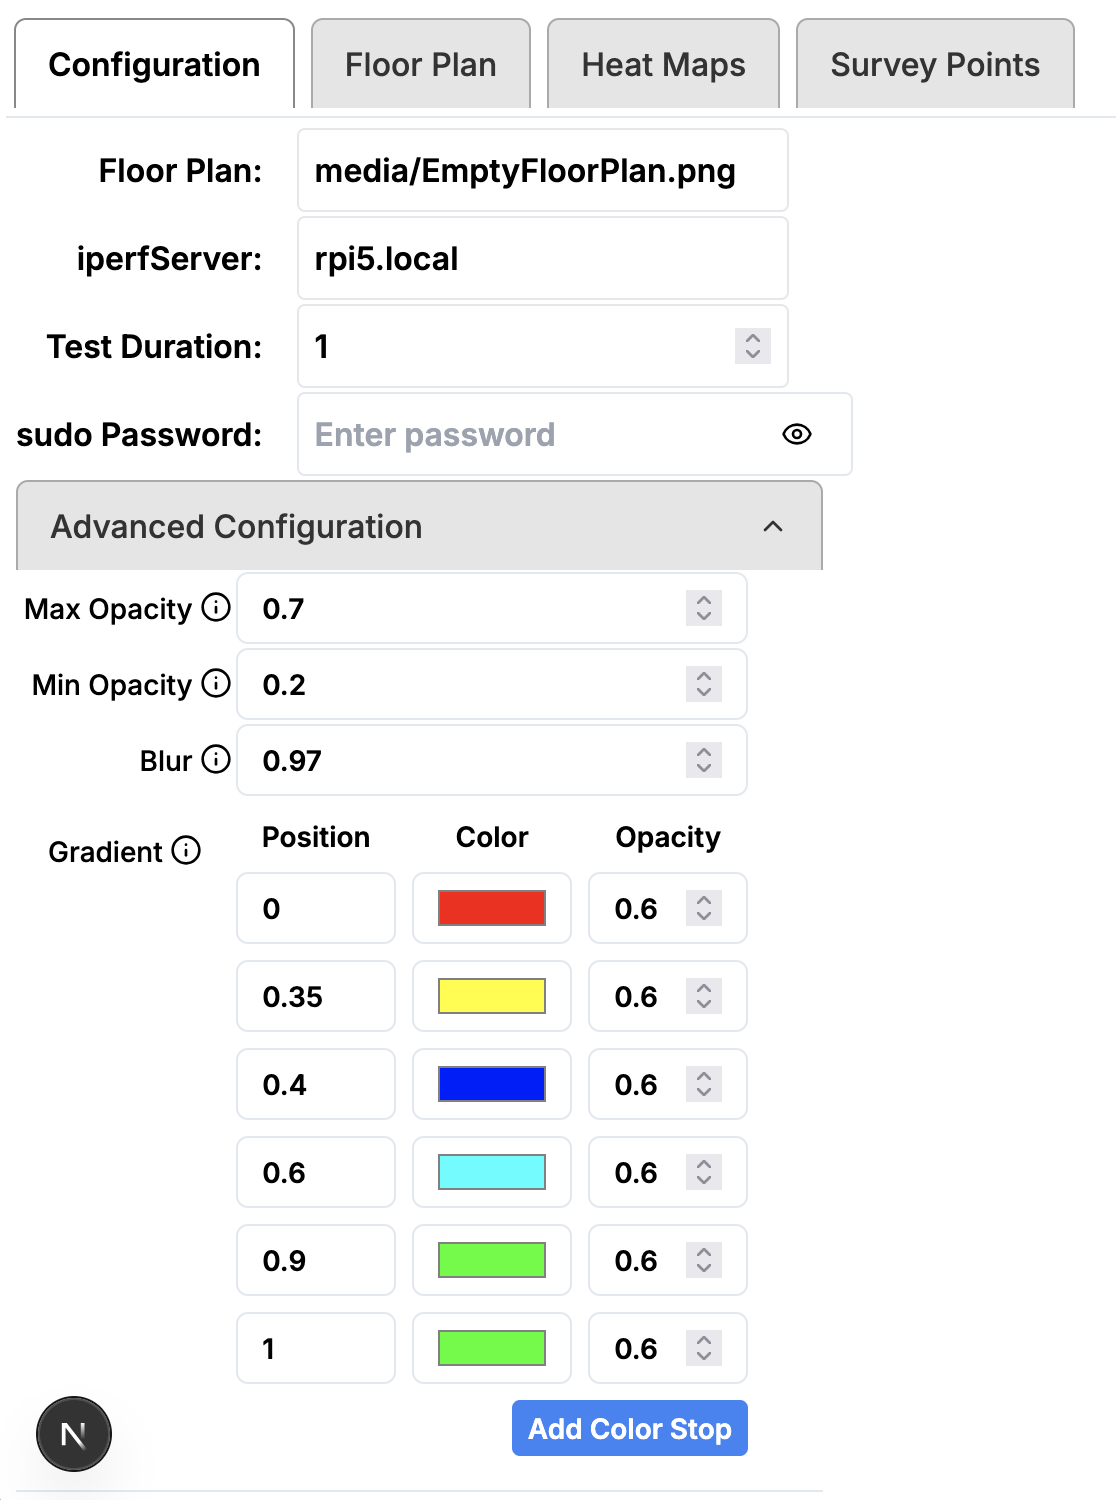
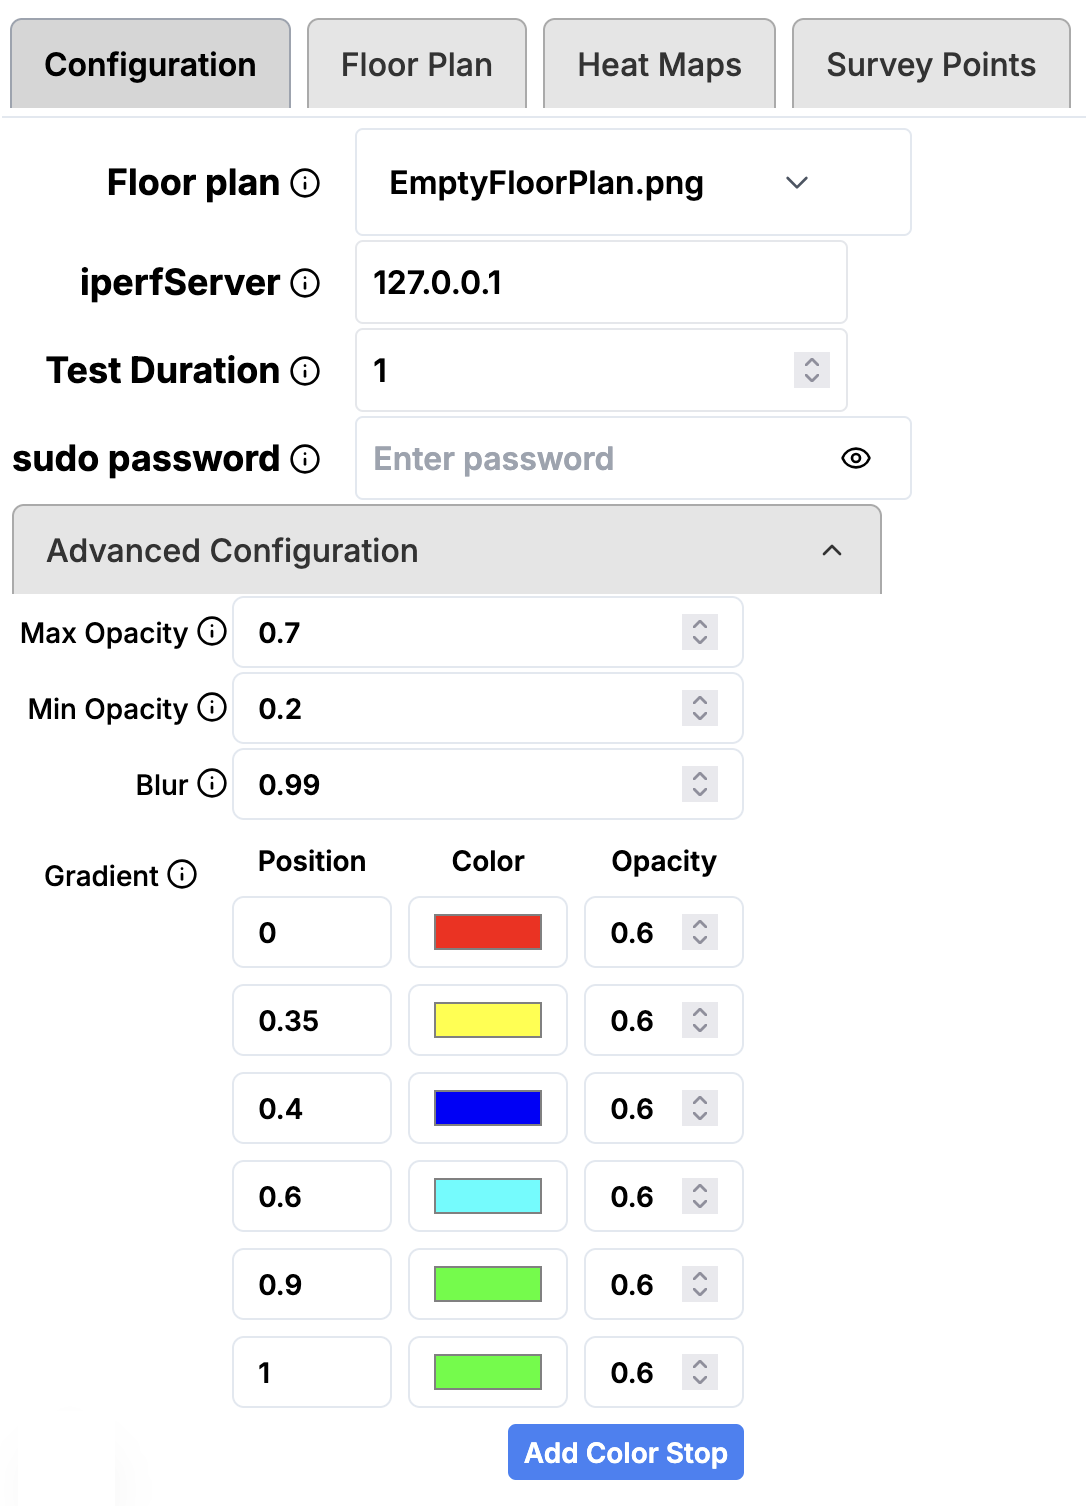
Editorial pass over documentation

diff --git a/src/lib/iperfRunner.ts b/src/lib/iperfRunner.ts
@@ -140,9 +140,7 @@ export async function runIperfTest(settings: HeatmapSettings): Promise<{
   iperfResults: IperfResults | null;
   wifiData: WifiNetwork | null;
 }> {
-  const performIperfTest =
-    settings.iperfServerAdrs != "localhost" &&
-    settings.iperfServerAdrs != "127.0.0.1";
+  const performIperfTest = settings.iperfServerAdrs != "localhost";
   const logger = getLogger("iperfRunner");
   try {
     const maxRetries = 3;

diff --git a/src/components/GlobalSettings.tsx b/src/components/GlobalSettings.tsx
@@ -21,7 +21,7 @@ const getDefaults = (floorPlan: string): HeatmapSettings => {
     surveyPoints: [],
     floorplanImageName: floorPlan,
     floorplanImagePath: join("/media", floorPlan),
-    iperfServerAdrs: "127.0.0.1",
+    iperfServerAdrs: "localhost",
     apMapping: [],
     testDuration: 1,
     sudoerPassword: "",

diff --git a/README.md b/README.md
@@ -1,16 +1,18 @@
 # WiFi Heatmapper
 
 **wifi-heatmapper** displays heat maps of both
-WiFi signal strength and
-the results of a network speed (throughput) test.
+Wi-Fi signal strength and
+the results of network throughput (speed) tests.
 This is useful for optimizing access point placement,
 or knowing where to add new mesh devices or extenders.
 
 **wifi-heatmapper** runs on Windows, macOS, and Linux.
 
-The heat maps use a green color to show areas of strong signal
+The heat maps use a green color ("green is good")
+to show areas of strong signal
 (or high data transfer speeds).
-Acceptable signal levels fade to turquoise, then to blue.
+Signal levels fade to turquoise, then to blue
+(lowest acceptable).
 Yellow and red colors indicate poor signal levels.
 The screen shot below shows a sample heat map:
 
@@ -27,22 +29,25 @@ There are more details about the operation of **wifi-heatmapper** at:
 
 **Install wifi-heatmapper** on a laptop computer since you use it
 to measure signal strength at various locations.
-See [Installation](#installing-and-running) for details.
+See [Installing and Running](#installing-and-running)
+below for details.
 Then browse to
 [http://localhost:3000](http://localhost:3000).
 
-**Settings pane:** Enter the address of an iperf3 server
+**Settings pane:** To get started, use the default floor plan
+(EmptyFloorPlan.png)
 and provide a sudo password for macOS or Linux.
-Leave the other settings at their default to start.
+Leave the other settings at their default.
+No throughput tests are made when the iperf3 server is set
+to "localhost".
 
 **Switch to the Floor Plan tab.**
 You'll see the built-in Empty Floor Plan or your imported image.
-_NB: Importing a new background image is currently awkward... Copy the PNG/JPG file to the `public/media` folder on the laptop, then specify its name in the Settings pane._
 
 **Start a measurement** by clicking the floor plan at a point
 that reflects the laptop's location.
 **wifi-heatmapper** measures the WiFi signal strength and
-the throughput at that point.
+(optionally) the throughput at that point.
 The floor plan displays a dot colored by its signal stength.
 Click the dot to get more information.
 
@@ -67,31 +72,44 @@ Install **wifi-heatmapper** on a laptop device
 so you can move from place to place.
 To install the software:
 
-1. Pull the repo, and install the `npm` dependencies.
+1. Pull the repo, install the `npm` dependencies, and run the project:
 
    ```bash
    git clone https://github.com/hnykda/wifi-heatmapper.git
    cd wifi-heatmapper
    npm install
+   npm run dev
    ```
+2. Browse to [http://localhost:3000](http://localhost:3000)
+   and follow the steps at the top of this page
 
-2. Install `iperf3` on your laptop.
-3. Install `iperf3` on another computer.
+### Installing iperf3
+
+_Note: Installing the `iperf3` client and server are optional.
+This makes the initial installation straightforward:
+simply perform the two steps above.
+But it misses out on the ability to make throughput tests._
+
+To take advantage of `iperf3` throughput (speed) tests:
+
+1. Install `iperf3` on your laptop.
+2. Install `iperf3` on another computer.
    We call this the "iperf3 server".
    This could be a desktop or another laptop,
    or even a Raspberry Pi 4 or 5 on the local network.
-4. Start the "iperf3 server" on the other computer with
+3. Start the "iperf3 server" on the other computer with
    `iperf3 -s`
-5. Optional checks: Run these on the laptop:
+4. Optional checks: Run these on the laptop:
    * Check the local iperf3 binary with `iperf3 --version`
    * Check the iperf3 server with `iperf3 -c address-of-iperf3-server`
-6. Browse to [http://localhost:3000](http://localhost:3000)
-   and follow the steps at the top of this page
+
+
 
 ## Usage with Docker
 
 WiFi Heatmapper includes a Dockerfile that automates much of
-the installation process.
+the installation process for Linux.
+_NB: The Dockerfile does not work on macOS or Windows. See the note in the Dockerfile for more information._
 
 1. Build the Docker Image
 
@@ -113,11 +131,12 @@ the installation process.
 
 use `-v` options if you want to save db + floorplanpicture to the _datas_ folder
 
-_NB: The Dockerfile does not work on macOS or Windows. See the note in the Dockerfile for more information._
-
 ## History
 
-This project is a WiFi heatmapper solution for macOS/Windows/Linux, inspired by [python-wifi-survey-heatmap](https://github.com/jantman/python-wifi-survey-heatmap). I (@hnykda) wanted to create a heatmap of my WiFi coverage, but the original project didn't work because I am running on Mac. I also wanted just something that might be slightly easier to use, i.e. via browser.
+This project is a WiFi heatmapper solution for macOS/Windows/Linux, inspired by [python-wifi-survey-heatmap](https://github.com/jantman/python-wifi-survey-heatmap).
+@hnykda wanted to create a heatmap of my WiFi coverage, but the original project didn't work because he is running on Mac.
+He also wanted just something that might be slightly easier to use, i.e. via browser.
+@richb-hanover refactored the GUI to its current four-tab appearance.
 
 ## Screen Recording
 

diff --git a/docs/Theory_of_Operation.md b/docs/Theory_of_Operation.md
@@ -60,6 +60,10 @@ but have not yet been removed from the code base:
 
 ## Routes in the Next app
 
+* The _api/media/route.ts_ file listens for a GET request
+  and returns the list of files in the _public/media_ directory
+  A POST request is treated as a file upload to be saved
+  in that directory.
 * The _api/events/route.ts_ file listens for a GET request,
   then keeps open a connection that sends 
   `sseMessageType` events to the client.
@@ -135,7 +139,8 @@ in _lib/utils.ts_ convert from one to the other.
 At the end of each measurement, the code saves both values.
 
 NB: In practice, any value below -75 dBM (~ 40%) is too low
-to be useful, and the color in the heatmap should be discouraging.
+to be useful, and the color displayed in the heatmap
+should be discouraging (yellow, red).
 
 Arguably, the zero point of the percentage scale should be
 -90dBm (not -100dBm) since the noise floor
@@ -179,22 +184,44 @@ The Windows parsing code then retrieves each label from the
 `netsh ...` command, does a reverse lookup, and sets the
 appropriate property.
 
+### Creating a localization file for your system
+
+To create a localization file for your Window's system's language:
+
+* Duplicate one of the _data/localization_ files
+* Rename it to _XX.json_, where "XX" is the proper code for the language
+  (e.g., _fr.json_ for a French system). The exact name is not important
+  except for the _.json_ suffix.
+* Run `netsh wlan show interfaces` from the command line
+* Paste the output of the `netsh wlan...` into the bottom of the window.
+* Comment out those lines (use `//` at the start of the line),
+  and remove the prior output
+* In the JSON structure at the top of the file, replace the localized
+  phrases (on the right) with the corresponding phrase from the new
+  `netsh wlan...` output.
+* Restart the `wifi-heatmapper` server (`npm run dev`)
+  to read the new localized values
+* Please add the new file as an Issue to the repo
+  (https://github.com/hnykda/wifi-heatmapper/issues)
+  so it can be incorporated into the program. 
+
 ## Radius Calculations
 
 The `h337.create()` function takes a `radius` parameter that
 determines "how much space" the value of each survey point
 should occupy.
 Reasonable values seem to be between 100 and 500,
-and are shown in the Advanced Heatmap Config.
+and can be set by the slider in the Heatmaps pane.
 
 The _lib/radiusCalculations.ts_ file implements several algorithms suggested by AI as experiments.
 The code currently uses the `r2` function that
 computes the radius using something like the density of
 points within the bounding box.
+This seems to give pretty pleasing results when the survey points
+cover the majority of the floor plan.
+Use the Radius slider to adjust the heatmap.
 
 _Note:_ The Android [NetSpot](https://www.netspotapp.com/netspot-wifi-analyzer-for-android.html)
 app incorporates a "distance" measurement for the background image.
 That may give a further hint about the size of the survey points.
 
-This needs considerable more experimentation to attain a
-pleasing metric.

diff --git a/CHANGELOG.md b/CHANGELOG.md
@@ -4,20 +4,18 @@ _This section follows the precepts of [Keep a Changelog](https://keepachangelog.
 
 ## [Unreleased - working toward 0.3.0]
 
-* Setting the iperf3 server to "localhost" or "127.0.0.1" only tests
-  Wi-Fi signal strength and disables iperf3 tests.
-  This avoids the requirement of setting up an iperf3 server simply
-  to use the program to get a heat map of the Wi-Fi signal.
-* If there are no iperf3 tests (TCP or UDP), their heat maps are not shown.
-* The "Floor plan" setting is now a dropdown that selects from all the PNG or JPEG
-  files in the _/media_ directory on the server.
+* The "Floor plan" setting is now a dropdown that selects from
+  all the PNG or JPEG files on the server.
   These images are used as keys to select the corresponding survey points and
   other settings that were collected for that background image.
-  All the settings are saved in both the current `wifi-heatmapper` object
-  of localStorage() as well as a copy in `wifi-heatmapper-floorplanImageName`
-* Selecting a new floor plan image loads the corresponding survey points.
-* Uploading a new floor plan image creates a new object in localStorage()
-  tagged with its name, as described above.
+  Selecting a new floor plan image loads the corresponding survey points.
+* **Upload an image...** allows uploading a new image.
+* Setting the iperf3 server to "localhost" disables iperf3 tests
+  and only tests Wi-Fi signal strength.
+  This makes it possible to get a WiFi heat map without requiring
+  an iperf3 client and server.
+* If there are no iperf3 tests (TCP or UDP), their heat maps are not shown.
+* All Settings items have an "information" button.
 * Significant editorial work on README and other pages in _docs_
 
 ## Version 0.2.1 - 2025-04-04

diff --git a/docs/User_Interface.md b/docs/User_Interface.md
@@ -4,10 +4,13 @@ The **wifi-heatmapper** user interface has a number of tabs.
 
 ## Settings Pane
 
-* **Floor Plan** is the path to an image on the laptop.
-  This image is displayed as a background behind both
-  the Floor Plan pane and the heatmaps
-* **iperfServer** - addess or DNS name for the "iperf3 serve"
+* **Floor Plan** is a dropdown showing the current floor plan image
+  and the images available.
+  Use _Upload an image..._ to add to the list.
+  The selected image is displayed as a background behind both
+  the Floor Plan pane and the heatmaps.
+* **iperfServer** - addess or DNS name for the "iperf3 server".
+  To disable iperf3 tests, set this to "localhost"
 * **Test duration** - in seconds. Defaults to one second.
 * **sudo Password** - required for macOS and Linux
 
@@ -17,15 +20,15 @@ these settings do not normally need to be modified
 * **Max Opacity** - _need more description_
 * **Min Opacity**  - _need more description_
 * **Blur** - _need more description_
-* **Gadient** - _need more description_
+* **Gradient** - _need more description_
 
 ![Settings Pane](images/SettingsPane.png)
 
 ## Floor Plan Pane
 
 Use this pane to collect the measurements.
-Click on a point in the image to make the measurement.
-Move to other locations and make additioinal measurements.
+Click on a point in the image to make a measurement.
+Move the laptop to other locations and make additional measurements.
 Multiple measurements per room is a good strategy.
 
 ![Floo Plan](images/FloorplanPane.png)

diff --git a/docs/To-Do.md b/docs/To-Do.md
@@ -42,6 +42,8 @@ Ideas for making the program better - in no particular order:
 * Using different size images for the floor plan image didn't work well.
   This is a placeholder: I don't currently have good debugging info
 * Test code from wifiScanner_windows should be moved to a separate \_test.ts file
+* "No TCP (UDP) test" message should be on an opaque/partially transparent background
+* Long file names should fit inside the dropdown
 
 ## Questions
 
